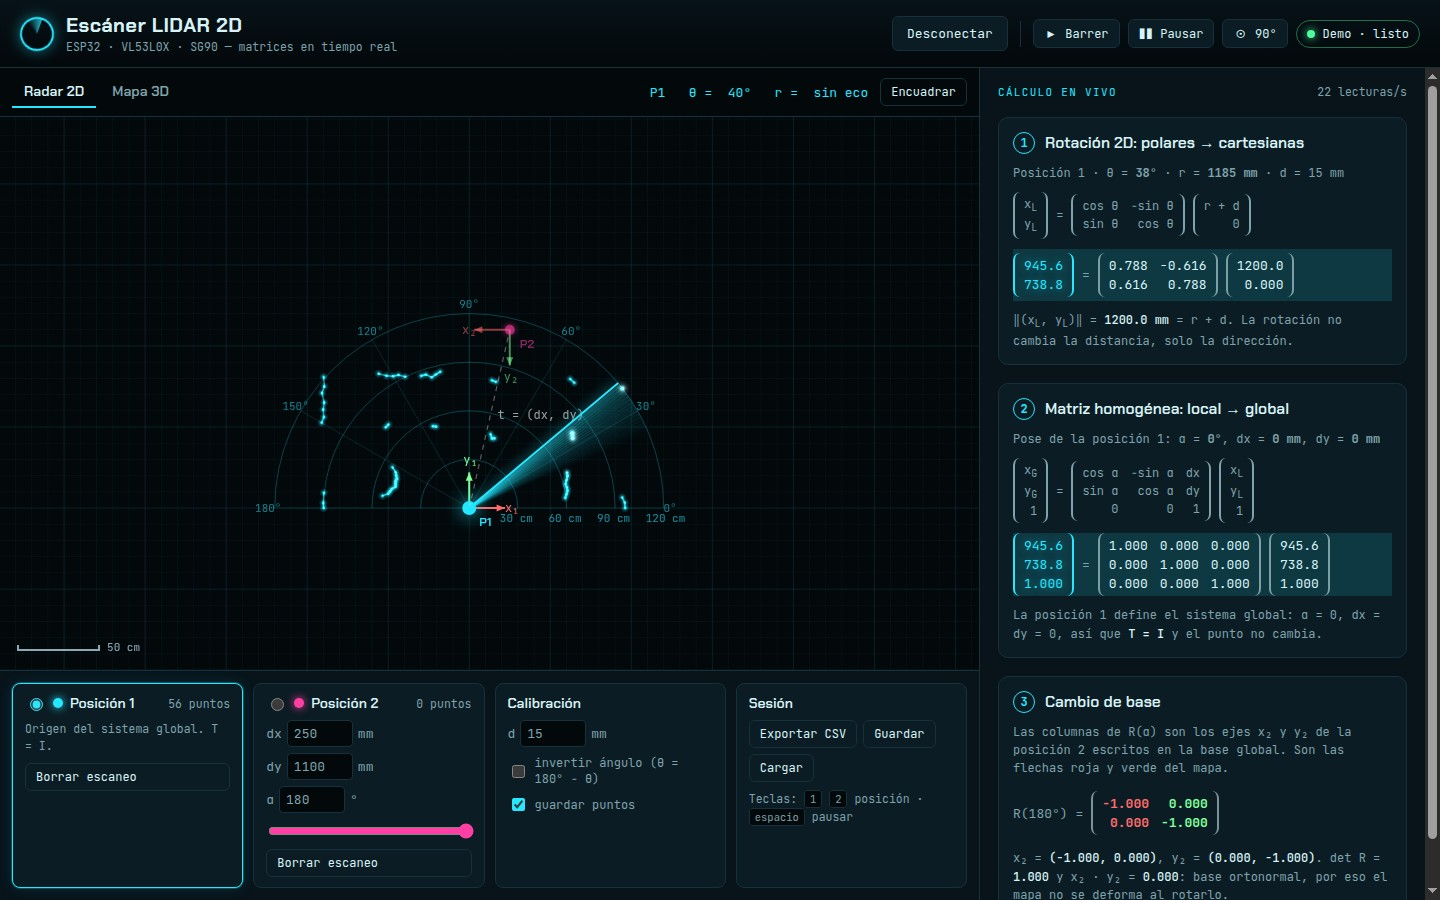
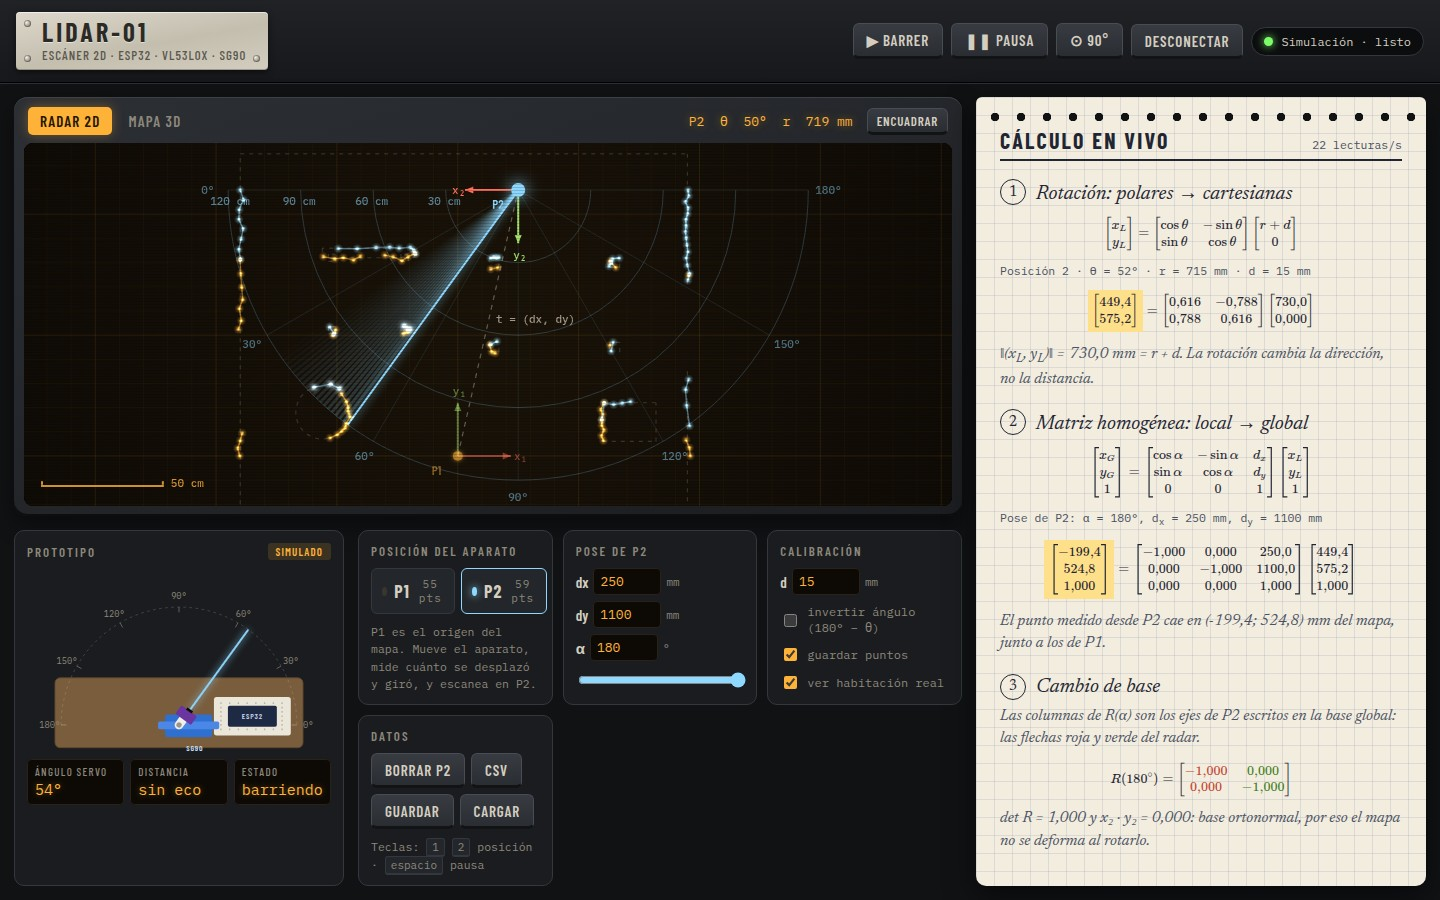
docs(informe): diagramas de montaje, docente y texto fiel al estado real
- Figuras de protoboard, esquemático y montaje mecánico desde la guía
- Docente: Daniel Bejarano; sin marcador de foto del prototipo
- Interfaz descrita como React + Bun con capturas nuevas
- El texto ya no afirma mediciones con el sensor, que falta soldar
- Guía: etiquetas que se encimaban en el esquemático y el montaje

diff --git a/docs/montaje-lidar.html b/docs/montaje-lidar.html
@@ -308,18 +308,18 @@ td:first-child { font-weight: 500; width: 34%; }
       <line class="net-line n-5v" x1="480" y1="170" x2="600" y2="170"/>
       <line class="net-line n-gnd" x1="480" y1="210" x2="600" y2="210"/>
       <text class="s-m" x="510" y="124" text-anchor="middle">PWM 50 Hz</text>
-      <text class="s-m" x="505" y="164" text-anchor="middle">5 V</text>
-      <text class="s-m" x="505" y="226" text-anchor="middle">GND</text>
+      <text class="s-m" x="560" y="164" text-anchor="middle">5 V</text>
+      <text class="s-m" x="560" y="226" text-anchor="middle">GND</text>
 
       <!-- Capacitor -->
-      <circle class="f-5v" cx="545" cy="170" r="3.5"/>
-      <circle class="f-gnd" cx="545" cy="210" r="3.5"/>
-      <line class="net-line n-5v" x1="545" y1="170" x2="545" y2="186"/>
-      <line class="net-line n-5v" x1="533" y1="186" x2="557" y2="186"/>
-      <path class="net-line n-gnd" d="M533 196 Q545 189 557 196"/>
-      <line class="net-line n-gnd" x1="545" y1="193" x2="545" y2="210"/>
-      <text class="s-m" x="528" y="183" text-anchor="end">+</text>
-      <text class="s-m" x="562" y="196">1000 µF</text>
+      <circle class="f-5v" cx="520" cy="170" r="3.5"/>
+      <circle class="f-gnd" cx="520" cy="210" r="3.5"/>
+      <line class="net-line n-5v" x1="520" y1="170" x2="520" y2="186"/>
+      <line class="net-line n-5v" x1="508" y1="186" x2="532" y2="186"/>
+      <path class="net-line n-gnd" d="M508 196 Q520 189 532 196"/>
+      <line class="net-line n-gnd" x1="520" y1="193" x2="520" y2="210"/>
+      <text class="s-m" x="503" y="183" text-anchor="end">+</text>
+      <text class="s-m" x="537" y="196">1000 µF</text>
     </svg>
   </div>
 </section>
@@ -391,9 +391,9 @@ td:first-child { font-weight: 500; width: 34%; }
       <line class="s-acc" x1="600" y1="183" x2="728" y2="183" marker-end="url(#arc)"/>
       <line class="s-dash" x1="600" y1="183" x2="728" y2="155" style="stroke:var(--copper)"/>
       <line class="s-dash" x1="600" y1="183" x2="728" y2="211" style="stroke:var(--copper)"/>
-      <text class="s-m" x="664" y="146" text-anchor="middle">cono de ≈25°</text>
+      <text class="s-m" x="712" y="150" text-anchor="middle">cono de ≈25°</text>
       <path d="M589 202 C 600 250, 650 250, 668 298" fill="none" stroke="#e3a33b" stroke-width="2"/>
-      <text class="s-m" x="672" y="266">cables con holgura</text>
+      <text class="s-m" x="752" y="256" text-anchor="end">cables flojos</text>
       <line class="s-ax" x1="500" y1="298" x2="500" y2="186" marker-end="url(#ar)" marker-start="url(#ar)"/>
       <text class="s-m" x="508" y="246">h</text>
     </svg>

diff --git a/web/src/App.tsx b/web/src/App.tsx
@@ -49,7 +49,7 @@ function Cabecera() {
 }
 
 function Pantalla() {
-  const [modo, setModo] = useState<'2d' | '3d'>('2d');
+  const [modo, setModo] = useState<'2d' | '3d'>(() => (location.hash === '#demo-3d' ? '3d' : '2d'));
   const [encuadre, setEncuadre] = useState(0);
   const [girar, setGirar] = useState(true);
   const e = useEscaner(150);
@@ -97,9 +97,11 @@ export function App() {
       }
     };
     document.addEventListener('keydown', tecla);
-    // index.html#demo arranca la simulación sin tocar nada (para ensayar la presentación)
+    // #demo arranca la simulación sin tocar nada (para ensayar la presentación);
+    // #demo-fusion además pasa sola a P2 después de dos barridos desde P1.
     if (location.hash.startsWith('#demo')) void escaner.conectar('simulacion');
-    return () => document.removeEventListener('keydown', tecla);
+    const paso = location.hash === '#demo-fusion' ? setTimeout(() => escaner.cambiar({ posicionActiva: 2 }), 8500) : undefined;
+    return () => { document.removeEventListener('keydown', tecla); clearTimeout(paso); };
   }, []);
 
   return (

diff --git a/docs/secciones/metodologia.tex b/docs/secciones/metodologia.tex
@@ -19,15 +19,24 @@ texto en formato JSON, una línea por medición, por ejemplo
 
 \subsection{Prototipo físico}
 
-El prototipo usa los componentes de la Tabla~\ref{tab:materiales}. El sensor
-se alimenta con 3,3 V y se comunica por el bus I\textsuperscript{2}C (GPIO 21
-para SDA y GPIO 22 para SCL). El servomotor se alimenta con los 5 V del pin VIN
-y recibe la señal de control por el GPIO 13. Entre las líneas de 5 V y tierra
-se conectó un condensador electrolítico de 1000 µF para absorber los picos de
-corriente del servo, que de otro modo pueden reiniciar el microcontrolador.
-El sensor va fijado sobre el brazo del servo con un soporte en L, con el lente
-lo más cerca posible del eje de giro. La distancia $d$ entre el eje y el lente
-se midió y se suma a cada lectura (Figura~\ref{fig:geometria}).
+El prototipo usa los componentes de la Tabla~\ref{tab:materiales}, montados
+sobre una protoboard de 400 puntos según la Figura~\ref{fig:protoboard}. El
+sensor se alimenta con 3,3 V y se comunica por el bus I\textsuperscript{2}C
+(GPIO 21 para SDA y GPIO 22 para SCL); sus cuatro cables van directo a los pines
+del ESP32. El servomotor se alimenta con los 5 V del pin VIN a través del riel
+inferior de la protoboard y recibe la señal de control por el GPIO 13. Entre
+ese riel de 5 V y tierra se conecta un condensador electrolítico de 1000 µF
+para absorber los picos de corriente del servo, que de otro modo pueden
+reiniciar el microcontrolador. La Figura~\ref{fig:esquematico} muestra el mismo
+circuito como esquemático.
+
+En el diseño mecánico (Figura~\ref{fig:mecanico}), el servo va fijo a una base
+rígida y el sensor se monta sobre el brazo del servo con un soporte en L, con
+el lente lo más cerca posible del eje de giro y a la altura de los objetos que
+se quieren detectar. La distancia $d$ entre el eje y el lente se suma a cada
+lectura (Figura~\ref{fig:geometria}); en la simulación se usó $d = 15$ mm. La
+guía de armado completa, con la lista de pasos y el color de cada cable, está
+en el archivo \texttt{docs/montaje-lidar.html} del repositorio del proyecto.
 
 \begin{table}[htbp]
 \caption{Materiales del prototipo y costo aproximado}
@@ -51,6 +60,34 @@ Total & & 62.000 -- 97.000 \\
 Los cables macho--macho del servo pueden reemplazarse por alambre de cable
 UTP. Elaboración propia.}
 \end{table}
+
+\begin{figure}[htbp]
+\caption{Conexiones en la protoboard (vista superior)}
+\label{fig:protoboard}
+\centering
+\includegraphics[width=0.9\linewidth]{montaje_protoboard.png}
+\figurenote{El ESP32 ocupa las filas B e I, columnas 6 a 20. Los cables del
+sensor son macho--hembra; los del servo y el riel de 5 V, macho--macho.
+Elaboración propia.}
+\end{figure}
+
+\begin{figure}[htbp]
+\caption{Esquemático del circuito}
+\label{fig:esquematico}
+\centering
+\includegraphics[width=\linewidth]{montaje_esquematico.png}
+\figurenote{Elaboración propia.}
+\end{figure}
+
+\begin{figure}[htbp]
+\caption{Montaje mecánico del sensor sobre el servo}
+\label{fig:mecanico}
+\centering
+\includegraphics[width=\linewidth]{montaje_mecanico.png}
+\figurenote{Izquierda: vista superior con el eje del servo como origen del
+sistema local. Derecha: vista lateral con el lente sobre el eje de giro.
+Elaboración propia.}
+\end{figure}
 
 \begin{figure}[htbp]
 \caption{Geometría de una lectura en el sistema local del aparato}
@@ -93,20 +130,30 @@ usar $180^\circ-\theta$ en lugar de $\theta$, lo que equivale a una reflexión
 del sistema local.
 
 Las funciones de álgebra lineal (rotación, matriz homogénea, inversa y
-productos) se programaron directamente en JavaScript, sin bibliotecas de
+productos) se programaron directamente en TypeScript, sin bibliotecas de
 cálculo, para que el código refleje las ecuaciones del marco teórico.
 
 \subsection{Interfaz web}
 
-La interfaz se ejecuta en el navegador y recibe los datos con la API Web
-Serial. Tiene una vista de radar 2D dibujada con Canvas y una vista 3D hecha con
-la biblioteca Three.js, en la que el mapa del plano se levanta en altura para
+La interfaz se construyó con React y TypeScript, se empaqueta con Bun y se
+ejecuta en el navegador, donde recibe los datos con la API Web Serial. Tiene
+una vista de radar 2D dibujada con Canvas y una vista 3D hecha con la
+biblioteca Three.js, en la que el mapa del plano se levanta en altura para
 facilitar su lectura. Esta vista 3D es una visualización: el sensor mide en un
-solo plano. Junto al mapa, un panel muestra la multiplicación de matrices de la
-lectura más reciente con sus valores numéricos, la matriz homogénea de la
-posición activa y las columnas de $R(\alpha)$ como ejes de la segunda
-posición. Al modificar $d_x$, $d_y$ o $\alpha$, el mapa se recalcula al
-instante, lo que permite ver cómo una pose mal medida desarma el mapa.
+solo plano. Junto al mapa, un panel con forma de hoja de cuaderno muestra,
+escrita con KaTeX, la multiplicación de matrices de la lectura más reciente con
+sus valores numéricos, la matriz homogénea de la posición activa y las columnas
+de $R(\alpha)$ como ejes de la segunda posición. Al modificar $d_x$, $d_y$ o
+$\alpha$, el mapa se recalcula al instante, lo que permite ver cómo una pose mal
+medida desarma el mapa.
+
+Un panel adicional dibuja el prototipo en vista superior: el servo, el sensor y
+el haz giran con cada lectura. Con el ESP32 conectado refleja lo que hace el
+aparato real; con el botón \textit{Simular prototipo}, la interfaz usa el
+simulador descrito en el protocolo experimental y superpone en el radar la
+habitación real, para comparar lo que mide el escáner con lo que debería medir.
+El código del proyecto (firmware, interfaz, pruebas y este informe) está en
+\url{https://github.com/ownerng/algebra-2-26}.
 
 \subsection{Protocolo experimental}
 
@@ -129,5 +176,5 @@ $d_x$), para observar el efecto en el mapa.
 sensor, comparando el error medio de registro con la predicción teórica.
 \end{enumerate}
 Además, se verificaron numéricamente las propiedades de las matrices
-implementadas y se escribieron pruebas automáticas para cada función de
-álgebra lineal.
+implementadas y se escribieron siete pruebas automáticas para las funciones
+de álgebra lineal y su concordancia con el simulador.

diff --git a/docs/secciones/resultados.tex b/docs/secciones/resultados.tex
@@ -81,21 +81,27 @@ se ejecutaron sin fallos.
 
 \subsection{Interfaz web}
 
-La Figura~\ref{fig:interfaz} muestra la interfaz durante un escaneo. El panel
-derecho presenta los dos productos matriciales con los valores de la lectura
-actual. En el caso mostrado, $\theta=38^\circ$ y $r+d=1200$ mm producen el
-punto $(945{,}6;\;738{,}8)$ mm, cuya norma es de nuevo 1200 mm, como predice la
-ecuación~\eqref{eq:norma}. En la primera posición la matriz homogénea es la
-identidad y el punto global coincide con el local.
+La Figura~\ref{fig:interfaz} muestra la interfaz durante una simulación en la
+que ya se escaneó desde las dos posiciones. Los puntos ámbar son los de la
+posición 1, los celestes los de la posición 2, y las líneas punteadas, la
+habitación real del simulador. El cuaderno de la derecha presenta los dos
+productos matriciales de la lectura actual, tomada desde la posición 2 con
+$\theta=52^\circ$, $r=715$ mm y $d=15$ mm. El primer producto da el punto
+local $(449{,}4;\;575{,}2)$ mm, cuya norma es $730$ mm $= r+d$, como predice la
+ecuación~\eqref{eq:norma}. El segundo lo lleva al mapa global: con
+$\alpha=180^\circ$, $d_x=250$ mm y $d_y=1100$ mm, el punto queda en
+$(-199{,}4;\;524{,}8)$ mm, junto a los puntos medidos desde la posición 1. El
+panel inferior izquierdo dibuja el prototipo con el servo en el ángulo de la
+lectura.
 
 \begin{figure}[htbp]
-\caption{Interfaz web: radar 2D y panel de cálculo en vivo}
+\caption{Interfaz web: radar 2D, prototipo simulado y cuaderno de cálculo}
 \label{fig:interfaz}
 \centering
 \includegraphics[width=\linewidth]{interfaz_2d.jpg}
 \figurenote{Las flechas roja y verde en cada posición son las columnas de
-$R(\alpha)$, es decir, los ejes locales vistos en la base global. Elaboración
-propia.}
+$R(\alpha)$, es decir, los ejes locales vistos en la base global. Captura del
+modo de simulación. Elaboración propia.}
 \end{figure}
 
 \begin{figure}[htbp]
@@ -104,27 +110,19 @@ propia.}
 \centering
 \includegraphics[width=\linewidth]{interfaz_3d.jpg}
 \figurenote{Cada punto del plano se levanta como una pared para facilitar la
-lectura. La altura es solo visual. Elaboración propia.}
+lectura. La altura es solo visual. Captura del modo de simulación. Elaboración
+propia.}
 \end{figure}
 
 \subsection{Validación con el prototipo físico}
 
-Se armó el circuito en la protoboard y se cargó un programa de prueba que
-lleva el servo a $0^\circ$, $90^\circ$ y $180^\circ$ y luego hace barridos
-continuos. El servo recorrió las tres posiciones y los barridos sin que el
-ESP32 se reiniciara por caída de tensión, lo que confirma que la alimentación
-desde el pin VIN, con el condensador de 1000 µF, es suficiente. La conexión del
-sensor estaba pendiente de soldadura al cierre de este informe.
-
-% TODO: cuando el sensor esté soldado, completar con mediciones reales.
-% Sugerencia: ubicar una caja a 30, 60 y 90 cm medidos con cinta, registrar
-% la lectura del escáner a 90 grados y reportar el error en esta tabla.
-% Agregar también la foto del prototipo en docs/figuras/foto_prototipo.jpg.
-
-\begin{figure}[htbp]
-\caption{Prototipo armado}
-\label{fig:prototipo}
-\centering
-\figurapendiente{foto_prototipo.jpg}{0.7\linewidth}
-\figurenote{Elaboración propia.}
-\end{figure}
+Se armó el circuito del servo en la protoboard según la
+Figura~\ref{fig:protoboard} y se cargó el programa de prueba
+\texttt{firmware/prueba\_servo}, que lleva el servo a $0^\circ$, $90^\circ$ y
+$180^\circ$ y luego hace barridos continuos. El servo recorrió las tres
+posiciones y los barridos, y el monitor serial no registró reinicios del ESP32
+por caída de tensión, lo que indica que la alimentación desde el pin VIN, con
+el condensador de 1000 µF, es suficiente. Al cierre de este informe, los pines
+del sensor VL53L0X estaban pendientes de soldadura, por lo que las mediciones
+de distancia con el sensor real y la comparación con distancias medidas con
+cinta quedan como siguiente paso de la validación.

diff --git a/docs/secciones/conclusiones.tex b/docs/secciones/conclusiones.tex
@@ -1,18 +1,19 @@
 \section{Conclusiones}
 
-Se construyó un prototipo de escáner con un ESP32, un sensor VL53L0X y un
-servomotor SG90, con un costo total de entre 62.000 y 97.000 pesos
-colombianos. Su firmware realiza barridos de $0^\circ$ a $180^\circ$ en pasos
-de $2^\circ$ y envía cada lectura $(r,\theta)$ en formato JSON. El servo y su
-alimentación se validaron sobre el circuito real sin reinicios del
-microcontrolador.
+Se diseñó el prototipo con un ESP32, un sensor VL53L0X y un servomotor SG90,
+con un costo total de entre 62.000 y 97.000 pesos colombianos, y se armó su
+circuito de control. El firmware realiza barridos de $0^\circ$ a $180^\circ$ en
+pasos de $2^\circ$ y envía cada lectura $(r,\theta)$ en formato JSON. El servo
+y su alimentación se validaron sobre el circuito real sin reinicios del
+microcontrolador; la medición con el sensor queda pendiente de que se suelden
+sus pines.
 
 La conversión de coordenadas se implementó como el producto
 $R(\theta)\,[r+d,\;0]^{T}$ y la fusión de escaneos como el producto por una
 matriz homogénea de $3\times3$. Las propiedades de estas matrices se
 verificaron numéricamente: el determinante, la ortogonalidad, la conservación
-de la norma y la inversa homogénea se cumplen con desviaciones del orden de
-$10^{-16}$, el límite de la aritmética de doble precisión.
+de la norma y la inversa homogénea se cumplen con desviaciones de entre
+$10^{-16}$ y $10^{-13}$, propias del redondeo en aritmética de doble precisión.
 
 La interfaz web dibuja el mapa en tiempo real en 2D y 3D y muestra, para cada
 lectura, los productos matriciales con sus valores numéricos. Permite además

diff --git a/docs/informe.tex b/docs/informe.tex
@@ -21,15 +21,6 @@
 % Cifras del texto: las genera experimentos/generar.mjs a partir del simulador.
 \input{tablas/cifras}
 
-% Fotos del prototipo: mientras no existan, se dibuja un marcador con el
-% nombre del archivo que falta y el documento sigue compilando.
-\newcommand{\figurapendiente}[2]{%
-  \IfFileExists{figuras/#1}%
-    {\includegraphics[width=#2]{#1}}%
-    {\fbox{\parbox[c][4cm][c]{#2}{\centering\ttfamily
-       foto pendiente\\\detokenize{#1}}}}%
-}
-
 % Notacion
 \newcommand{\vect}[1]{\mathbf{#1}}
 
@@ -42,8 +33,7 @@
 \author{Jhonatan Méndez}
 \affiliation{Facultad de Ingeniería, Universidad Cooperativa de Colombia}
 \course{Álgebra Lineal}
-% TODO: reemplazar por el nombre completo del docente.
-\professor{Nombre del docente}
+\professor{Daniel Bejarano}
 % TODO: reemplazar por la fecha de entrega.
 \duedate{Fecha de entrega}
 

diff --git a/docs/secciones/contraportada.tex b/docs/secciones/contraportada.tex
@@ -17,7 +17,7 @@ Trabajo presentado como requisito para la asignatura de Álgebra Lineal
 \vspace{2cm}
 
 Docente\\
-Nombre del docente          % TODO: nombre completo del docente
+Daniel Bejarano
 
 \vspace{2cm}
 

diff --git a/README.md b/README.md
@@ -36,7 +36,7 @@ Necesita [Bun](https://bun.sh). Usa **Chrome, Chromium o Edge**: Firefox no
 tiene Web Serial. Pulsa **Conectar ESP32** y elige el puerto. Sin el sensor,
 pulsa **Simular prototipo**: el panel del prototipo muestra lo que debería
 hacer el aparato y el radar superpone la habitación real para comparar.
-`localhost:3000/#demo` arranca la simulación directamente.
+`localhost:3000/#demo` arranca la simulación directamente; `#demo-fusion` además pasa sola a P2, y `#demo-3d` abre la vista 3D.
 
 ## 3. Hacer el mapa con dos posiciones
 
@@ -60,4 +60,4 @@ Paso 2   [xG]   [cos α  −sin α  dx] [xL]
          [1 ]   [  0       0     1] [1 ]
 ```
 
-Código: `web/js/matematica.js`.
+Código: `web/src/lib/matematica.ts`.
